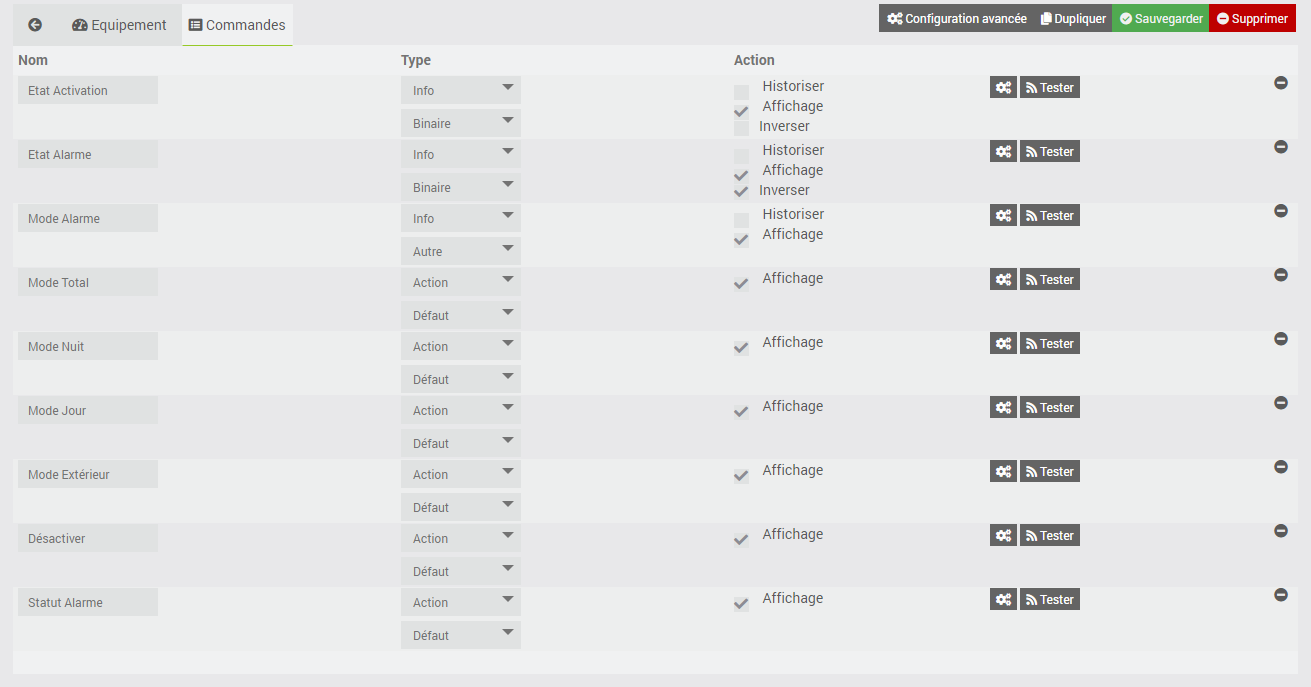
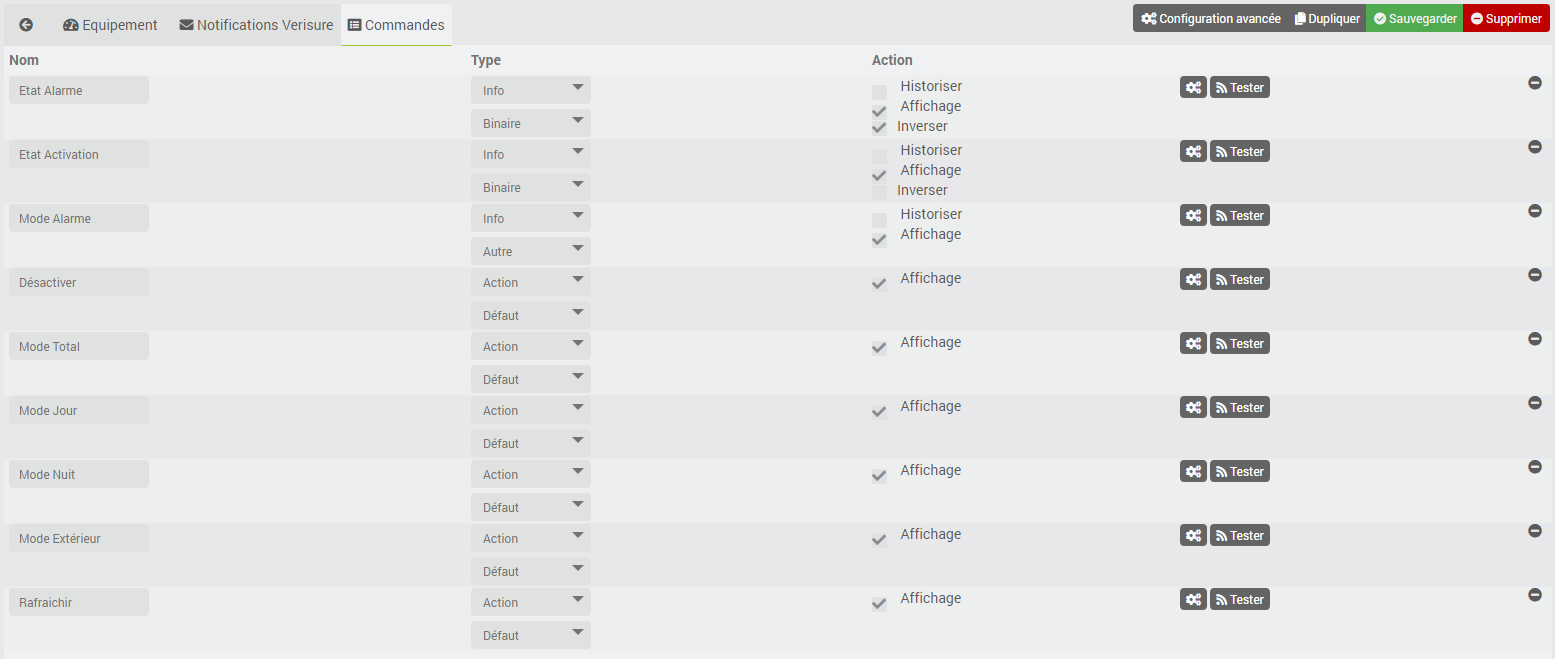
Update Docs

diff --git a/docs/fr_FR/index.md b/docs/fr_FR/index.md
@@ -75,6 +75,23 @@ Il vous suffit ensuite de cliquer sur le bouton **Synchroniser** pour récupére
 ![Equipement](../assets/images/Eqpt_verisure.png)
 
 
+# Journal d'activité
+
+Vous avez la possibilité de consulter le journal d'activité de votre alarme en cliquant sur le bouton **Journal d'activité**. Ce rapport reprend les derniers évènements survenus sur votre centrale (alertes intrusion, SOS, activation / désactivation, coupure d'électricité).
+
+
+![Journal](../assets/images/journal_verisure.png)
+
+
+# Notifications Verisure
+
+Les API Verisure ne permettent pas les remontées d'informations et notifications automatiques directes, telles que l'activation/désactivation depuis un badge ou une télécommande ou encore le déclenchement de l'alarme.
+
+Cet onglet décrit en détail comment paramétrer Jeedom (scénarios) pour palier à ce manque pour :
+-   les **notifications Mail** pour l'activation/désactivation de l'alarme au travers du plugin [Mail Listener](https://www.jeedom.com/market/index.php?v=d&p=market&author=Lunarok&&name=maillistener) de Lunarok !
+-   les **notifications SMS** pour la détection d'intrusion (dev en cours)
+
+
 # Commandes
 
 Il existe actuellement plusieurs commandes qui sont décrites ci-dessous.
@@ -111,7 +128,7 @@ Il existe actuellement plusieurs commandes qui sont décrites ci-dessous.
 
 -   **Désactivation** : désactive de l'alarme, quel que soit le mode
 
--   **Statut Alarme** : met à jour du statut de l'Alarme
+-   **Rafraichir** : met à jour du statut de l'Alarme
 
 
 ![Commandes](../assets/images/Command_verisure.png)
@@ -145,7 +162,7 @@ Le plugin inclut un dashboard qui permet de :
 -   Activer le mode jour de l'alarme
 -   Activer le mode extérieur de l'alarme
 -   Désactiver l'alarme
--   Mettre à jour le statut de l'alarme
+-   Rafraichir le statut de l'alarme
 
 **Attention** : les commandes peuvent parfois mettre plusieurs secondes à se réaliser (entre 15s et 25s). Cela est lié à la qualité de connexion 3G ou 4G de la base de votre alarme. Alors soyez patient !
 
@@ -163,7 +180,7 @@ Un CRON est automatiquement créé sur base de 30 min comme indiqué dans la con
 
 ## Manuel
 
-Vous pouvez à tout moment utiliser la commande **Statut Alarme** afin de rafraichir le statut de l'alarme.
+Vous pouvez à tout moment utiliser la commande **Rafraichir** afin de rafraichir le statut de l'alarme.
 
 
 # Roadmap
@@ -172,9 +189,8 @@ Ce plugin évoluera au fil du temps en fonction de vos demandes et des possibili
 
 Les prochaines versions verront arriver les features suivantes :
 
--   Gestion du déclenchement de l'alarme (sur utilisation de reception d'e-mail ?)
+-   Gestion du déclenchement de l'alarme (sur utilisation de reception d'un SMS ?)
 -   Récupération des photos des détecteurs de mouvement image 
--   Récupération du journal des évènements liés à votre alarme
 
 > **Tip**
 >

diff --git a/docs/fr_FR/changelog.md b/docs/fr_FR/changelog.md
@@ -2,6 +2,13 @@
 
 __Vous trouverez ci-dessous les notes, les ajouts et les correctifs de chaque version du plugin__
 
+# 2020-05-04
+
+Ajout des fonctions suivantes :
+ - Accès au journal d'activité Verisure
+ - Onglet "Notifications Verisure" pour la mise en place des scénarios de notifications Mail et SMS
+  
+
 # 2020-04-15
 
 Première version du plugin Verisure
